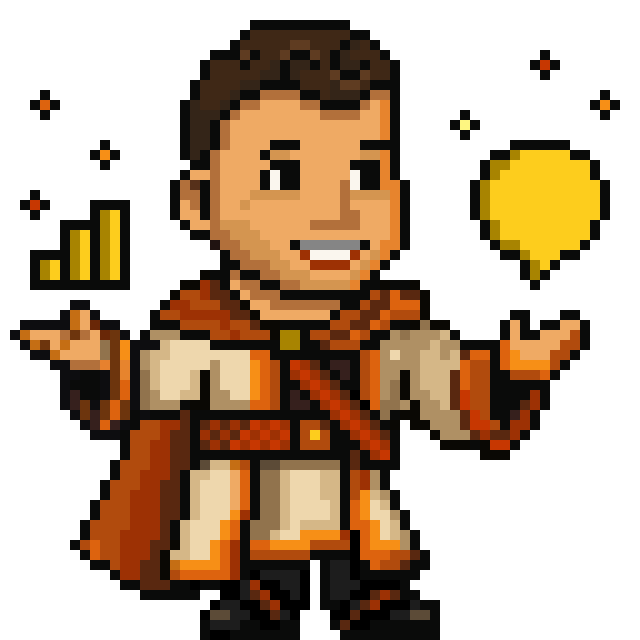
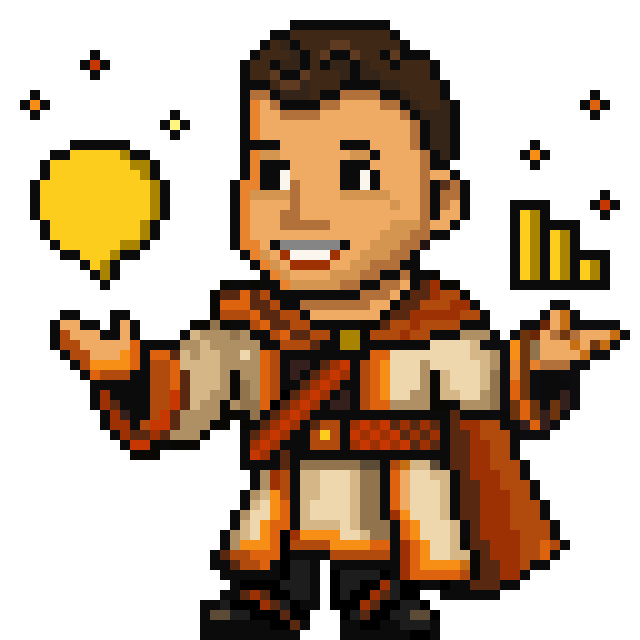
feat(speakers): update Eva González and Brais Calvo info with i18n support
- Add complete information for Eva González and Brais Calvo (roles, companies, bios, social links)
- Add images for Eva and Brais (x64 and real versions)
- Make Eva and Brais visible in speakers section
- Change talk format to 'taller' for Borja, Cristina, Eva and Brais
- Update talk titles to 'Actividad'/'Actividade' for all workshop speakers
- Reorganize speaker modal layout for multi-speaker view (photo + info, then bio below)
- Center social icons in mobile view
- Remove border-bottom from multi-speaker headers
- Flip Brais images horizontally

diff --git a/src/components/Speakers/SpeakerModal.tsx b/src/components/Speakers/SpeakerModal.tsx
@@ -93,65 +93,64 @@ const SpeakerModal: React.FC<SpeakerModalProps> = ({
             {/* Múltiples ponentes */}
             <div className="speaker-modal__multi-speakers">
               {speaker.speakers.map((subSpeaker, index) => (
-                <div key={index} className="speaker-modal__header">
-                  <div className="speaker-modal__image-container">
-                    <CornerFlourish position="top-left" />
-                    <CornerFlourish position="top-right" />
-                    <CornerFlourish position="bottom-left" />
-                    <CornerFlourish position="bottom-right" />
-                    <img
-                      src={subSpeaker.imageReal?.src || subSpeaker.image.src}
-                      alt={subSpeaker.imageReal?.alt || subSpeaker.image.alt}
-                      className="speaker-modal__image"
-                    />
+                <div key={index} className="speaker-modal__speaker-block">
+                  <div className="speaker-modal__header">
+                    <div className="speaker-modal__image-container">
+                      <CornerFlourish position="top-left" />
+                      <CornerFlourish position="top-right" />
+                      <CornerFlourish position="bottom-left" />
+                      <CornerFlourish position="bottom-right" />
+                      <img
+                        src={subSpeaker.imageReal?.src || subSpeaker.image.src}
+                        alt={subSpeaker.imageReal?.alt || subSpeaker.image.alt}
+                        className="speaker-modal__image"
+                      />
+                    </div>
+                    <div className="speaker-modal__title">
+                      <h2 className="speaker-modal__name">{subSpeaker.name}</h2>
+                      <p className="speaker-modal__role">{subSpeaker.role}</p>
+                      {subSpeaker.company && (
+                        <p className="speaker-modal__company">
+                          {subSpeaker.company}
+                        </p>
+                      )}
+                      {subSpeaker.socials && subSpeaker.socials.length > 0 && (
+                        <div className="speaker-modal__socials">
+                          {subSpeaker.socials.map((social, socialIndex) => (
+                            <a
+                              key={socialIndex}
+                              href={social.url}
+                              target="_blank"
+                              rel="noopener noreferrer"
+                              className="speaker-modal__social-icon"
+                              aria-label={social.label}
+                              title={social.label}
+                            >
+                              {renderSocialIcon(social.label)}
+                            </a>
+                          ))}
+                        </div>
+                      )}
+                    </div>
                   </div>
-                  <div className="speaker-modal__title">
-                    <h2 className="speaker-modal__name">{subSpeaker.name}</h2>
-                    <p className="speaker-modal__role">{subSpeaker.role}</p>
-                    {subSpeaker.company && (
-                      <p className="speaker-modal__company">
-                        {subSpeaker.company}
-                      </p>
+                  <section className="speaker-modal__section">
+                    <h3 className="speaker-modal__bio-title">
+                      Bio - {subSpeaker.name}
+                    </h3>
+                    {renderTextWithParagraphs(
+                      subSpeaker.summary,
+                      "speaker-modal__text",
                     )}
-                    {subSpeaker.socials && subSpeaker.socials.length > 0 && (
-                      <div className="speaker-modal__socials">
-                        {subSpeaker.socials.map((social, socialIndex) => (
-                          <a
-                            key={socialIndex}
-                            href={social.url}
-                            target="_blank"
-                            rel="noopener noreferrer"
-                            className="speaker-modal__social-icon"
-                            aria-label={social.label}
-                            title={social.label}
-                          >
-                            {renderSocialIcon(social.label)}
-                          </a>
-                        ))}
-                      </div>
-                    )}
-                  </div>
+                  </section>
                 </div>
               ))}
             </div>
 
             <div className="speaker-modal__body">
-              {speaker.speakers.map((subSpeaker, index) => (
-                <section key={index} className="speaker-modal__section">
-                  <h3 className="speaker-modal__bio-title">
-                    Bio - {subSpeaker.name}
-                  </h3>
-                  {renderTextWithParagraphs(
-                    subSpeaker.summary,
-                    "speaker-modal__text",
-                  )}
-                </section>
-              ))}
-
               <section className="speaker-modal__section">
-                <h4 className="speaker-modal__talk-title">
+                <h3 className="speaker-modal__talk-title">
                   {speaker.talkTitle}
-                </h4>
+                </h3>
                 {speaker.talkDescription && (
                   <>
                     {renderTextWithParagraphs(
@@ -213,9 +212,9 @@ const SpeakerModal: React.FC<SpeakerModalProps> = ({
               </section>
 
               <section className="speaker-modal__section">
-                <h4 className="speaker-modal__talk-title">
+                <h3 className="speaker-modal__talk-title">
                   {speaker.talkTitle}
-                </h4>
+                </h3>
                 {speaker.talkDescription && (
                   <>
                     {renderTextWithParagraphs(

diff --git a/src/components/Speakers/speakers-data-i18n.ts b/src/components/Speakers/speakers-data-i18n.ts
@@ -101,7 +101,7 @@ export function getSpeakersData(locale: Locale): Speaker[] {
       name: "Borja Pérez",
       talkTitle: speakersData["borja-perez"].talkTitle,
       talkDescription: speakersData["borja-perez"].talkDescription,
-      talkFormat: "charla",
+      talkFormat: "taller",
       tag: "Empleabilidad",
       role: speakersData["borja-perez"].role,
       company: speakersData["borja-perez"].company,
@@ -148,6 +148,7 @@ export function getSpeakersData(locale: Locale): Speaker[] {
       name: "Cristina Rodríguez",
       talkTitle: speakersData["speaker-4"].talkTitle,
       talkDescription: speakersData["speaker-4"].talkDescription,
+      talkFormat: "taller",
       tag: "Diseño",
       role: speakersData["speaker-4"].role,
       summary: speakersData["speaker-4"].summary,
@@ -186,14 +187,15 @@ export function getSpeakersData(locale: Locale): Speaker[] {
       summary: speakersData["eva-gonzalez-brais-calvo"].summary,
       image: { src: EvaImage.src, alt: "Retrato de Eva González" },
       socials: [],
-      isRevealed: false,
+      isRevealed: true,
       colSpan: 2,
       isMultiSpeaker: true,
       speakers: [
         {
           name: "Eva González",
           role: speakersData["eva-gonzalez-brais-calvo"].speakers.eva.role,
-          company: speakersData["eva-gonzalez-brais-calvo"].speakers.eva.company,
+          company:
+            speakersData["eva-gonzalez-brais-calvo"].speakers.eva.company,
           summary:
             speakersData["eva-gonzalez-brais-calvo"].speakers.eva.summary,
           image: { src: EvaImage.src, alt: "Retrato de Eva González" },
@@ -212,7 +214,8 @@ export function getSpeakersData(locale: Locale): Speaker[] {
         {
           name: "Brais Calvo",
           role: speakersData["eva-gonzalez-brais-calvo"].speakers.brais.role,
-          company: speakersData["eva-gonzalez-brais-calvo"].speakers.brais.company,
+          company:
+            speakersData["eva-gonzalez-brais-calvo"].speakers.brais.company,
           summary:
             speakersData["eva-gonzalez-brais-calvo"].speakers.brais.summary,
           image: { src: BraisImage.src, alt: "Retrato de Brais Calvo" },

diff --git a/src/components/Speakers/speakers-data.ts b/src/components/Speakers/speakers-data.ts
@@ -89,9 +89,9 @@ export const speakers: Speaker[] = [
   {
     id: "borja-perez",
     name: "Borja Pérez",
-    talkTitle: "Recruiting",
+    talkTitle: "Actividad",
     talkDescription: "Más información próximamente.",
-    talkFormat: "charla",
+    talkFormat: "taller",
     tag: "Empleabilidad",
     role: "Community & Marketing Lead",
     company: "Manfred",
@@ -137,8 +137,9 @@ export const speakers: Speaker[] = [
   {
     id: "speaker-4",
     name: "Cristina Rodríguez",
-    talkTitle: "Por confirmar",
+    talkTitle: "Actividad",
     talkDescription: "Más información próximamente.",
+    talkFormat: "taller",
     tag: "Diseño",
     role: "Por confirmar",
     summary:
@@ -171,15 +172,15 @@ export const speakers: Speaker[] = [
   {
     id: "eva-gonzalez-brais-calvo",
     name: "Eva González & Brais Calvo",
-    talkTitle: "Taller conjunto",
+    talkTitle: "Actividad conjunta",
     talkDescription: "Más información próximamente.",
     talkFormat: "taller",
     tag: "Analítica",
     role: "Data Analyst · Cofundadores de nosDeu y Datola",
-    summary: "Taller conjunto.",
+    summary: "Actividad conjunta.",
     image: { src: CristinaImage.src, alt: "Retrato de Eva González" },
     socials: [],
-    isRevealed: false,
+    isRevealed: true,
     colSpan: 2,
     isMultiSpeaker: true,
     speakers: [

diff --git a/src/styles/ThroneRoomGallery.scss b/src/styles/ThroneRoomGallery.scss
@@ -424,16 +424,6 @@
   flex-direction: column;
   gap: 2rem;
   margin-bottom: 1rem;
-
-  .speaker-modal__header {
-    border-bottom: 2px solid var(--secondary);
-    padding-bottom: 1.5rem;
-
-    &:last-child {
-      border-bottom: none;
-      padding-bottom: 0;
-    }
-  }
 }
 
 .speaker-modal__bio-title {
@@ -577,6 +567,15 @@
 
   .speaker-modal__content {
     padding: 1.5rem;
+  }
+
+  .speaker-modal__header {
+    flex-direction: column;
+    text-align: center;
+  }
+
+  .speaker-modal__socials {
+    justify-content: center;
   }
 }
 
